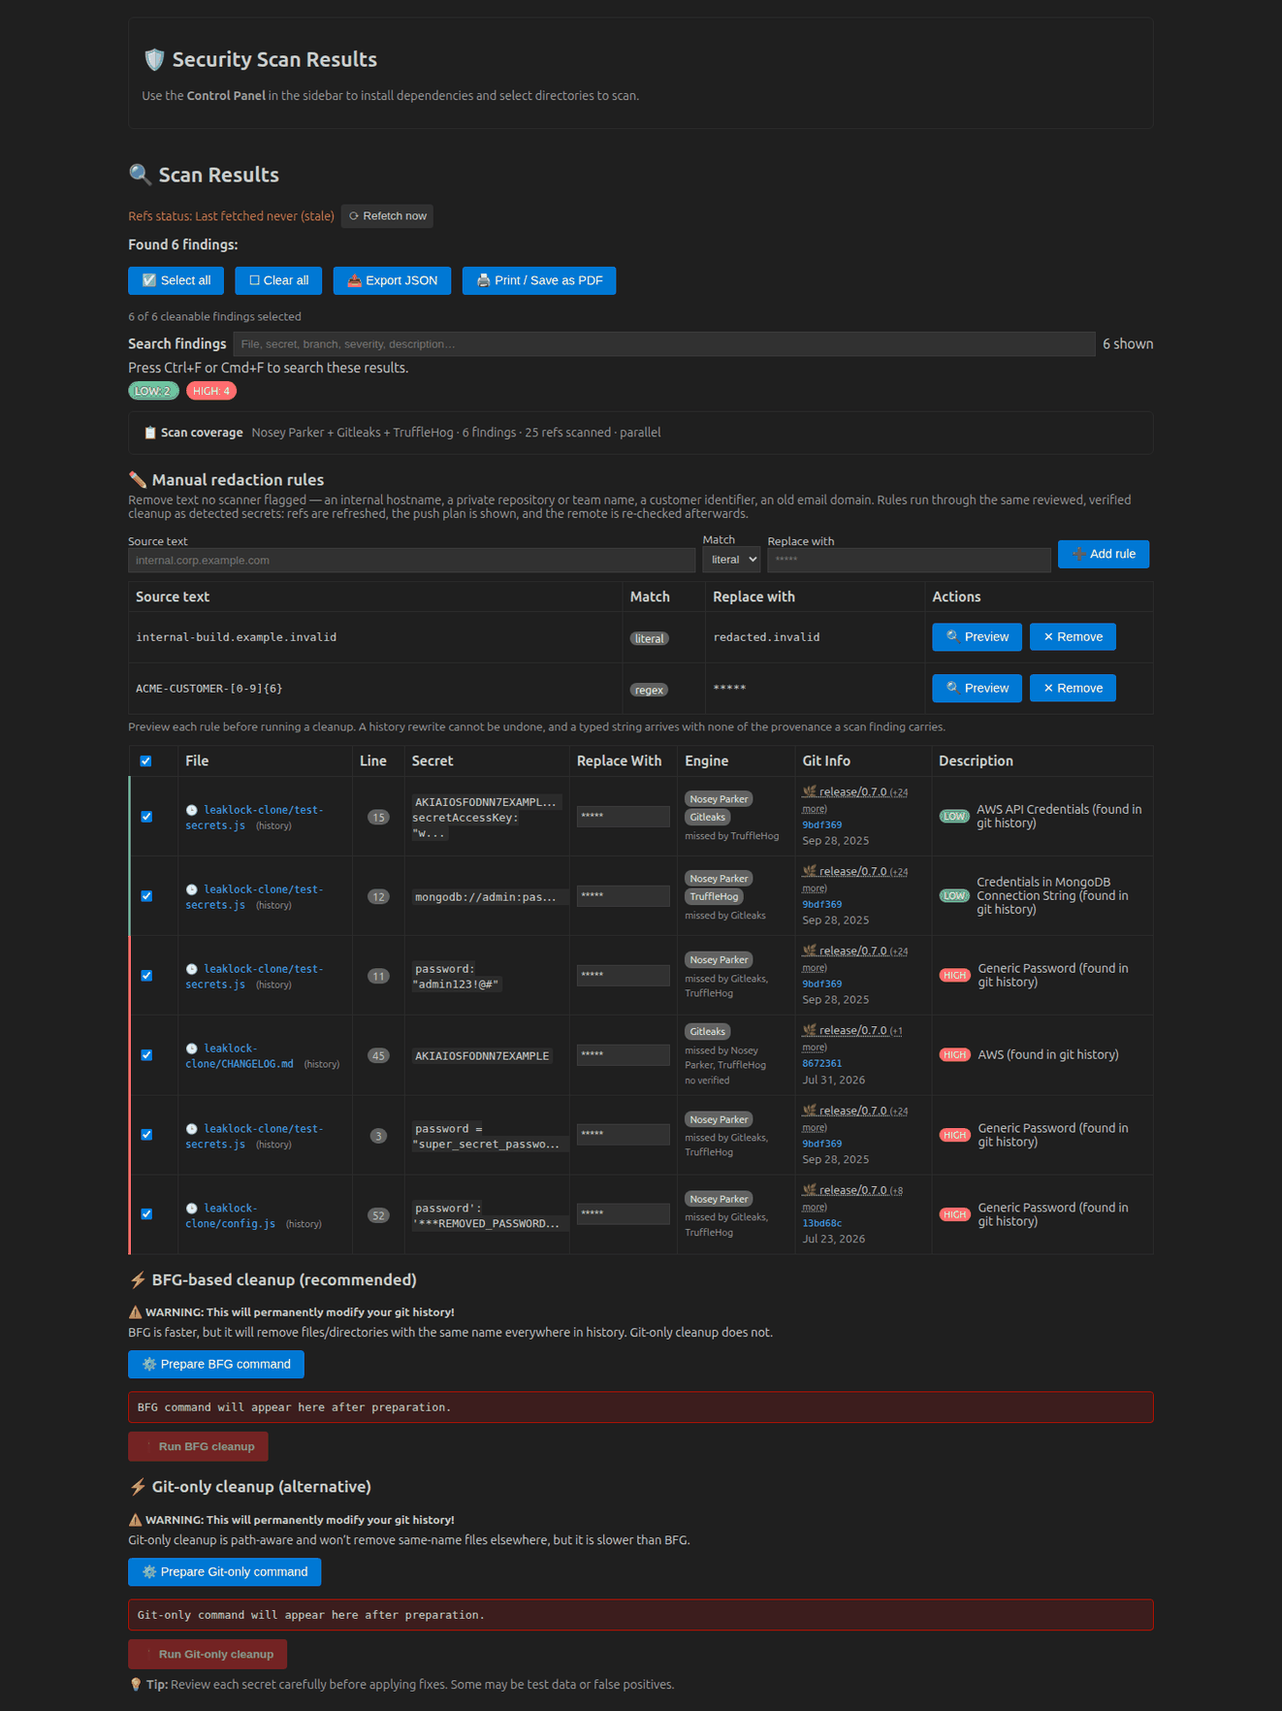
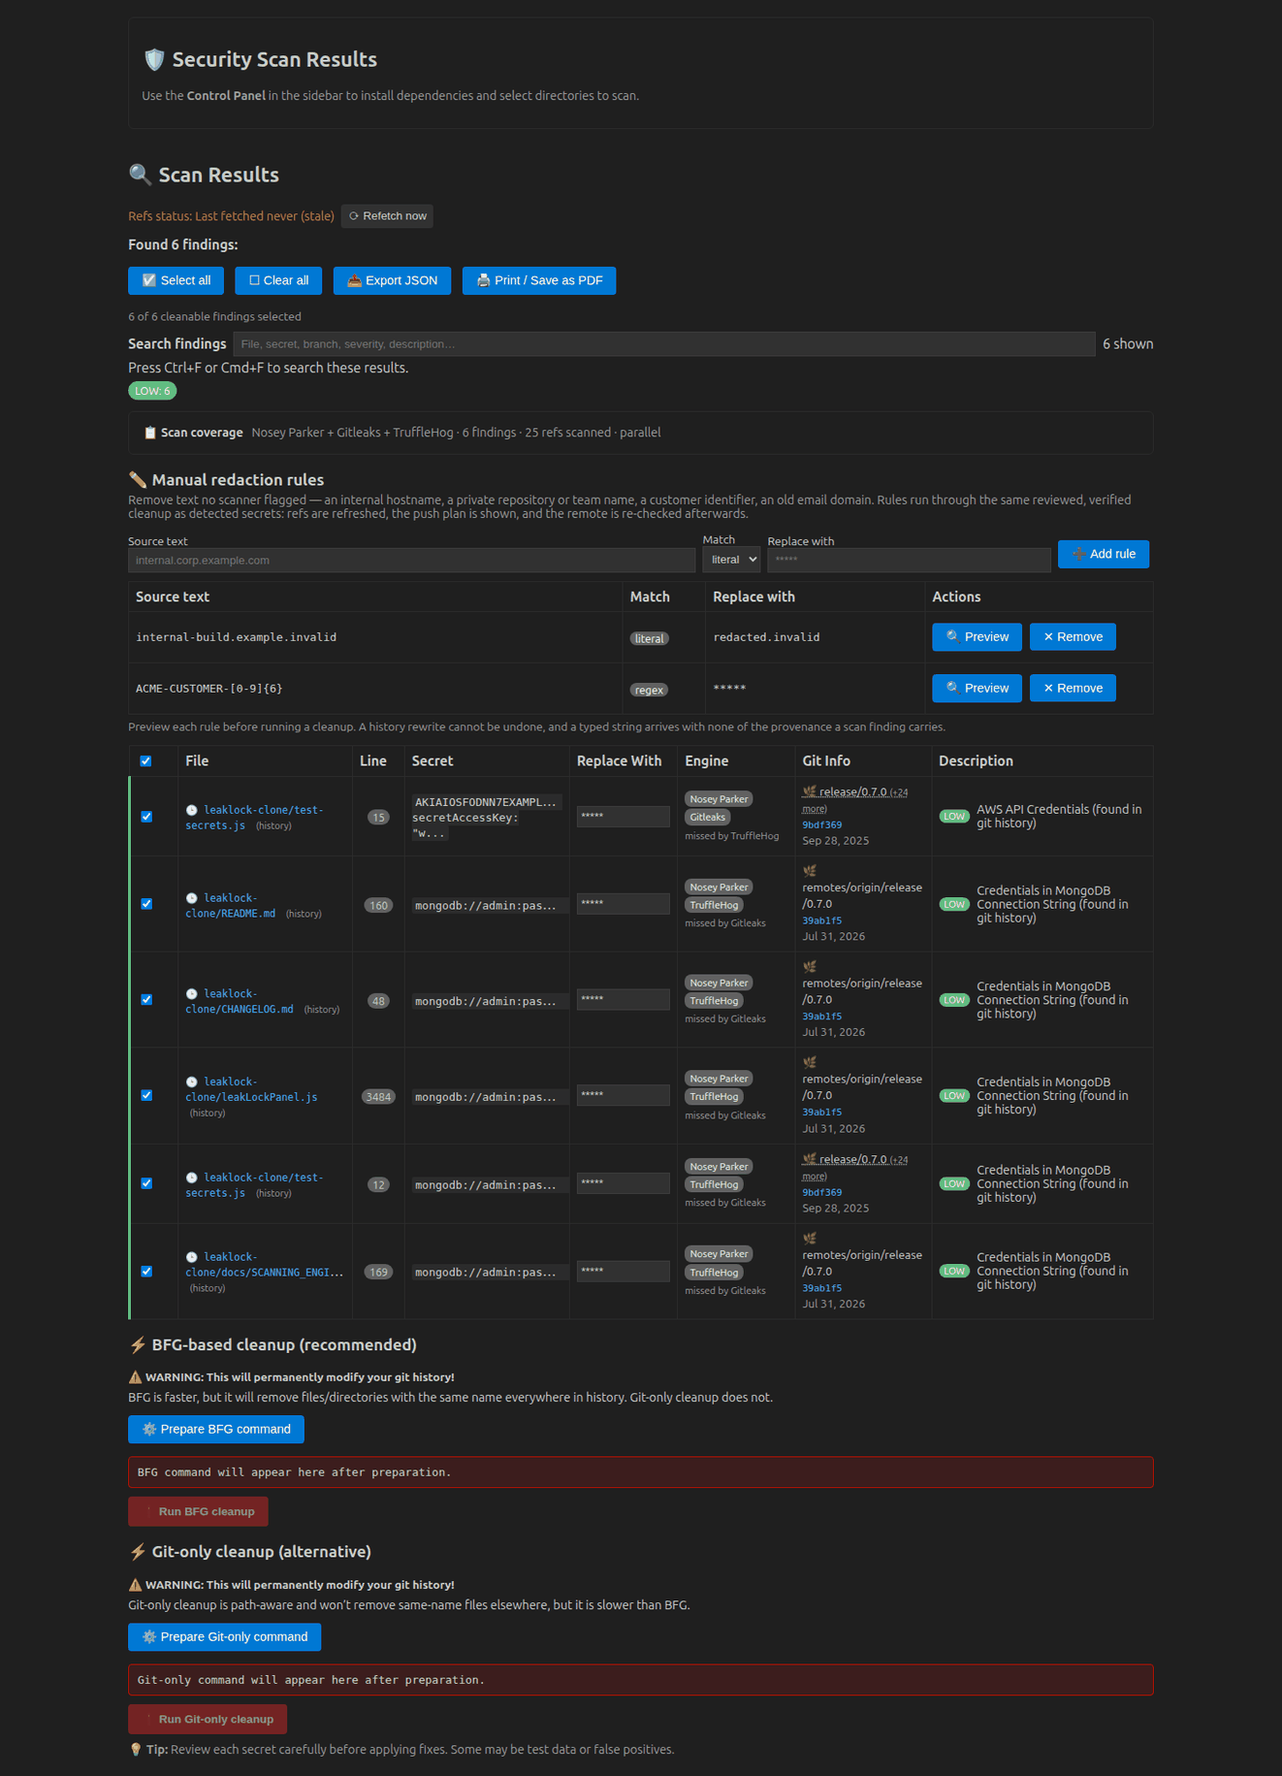
fix(scan): enable all three engines by default, and find their binaries off PATH
Reported: only two engines show up when testing. Two causes, both mine.

The shipped default for leakLock.scan.engines was ["gitleaks", "noseyparker"].
TruffleHog was fully implemented — adapter, settings, verification, tests — but
never enabled, so it only ran if a user found the setting. The screenshots and
documentation showed three engines because tools/real-scan.js hard-coded all
three, which is precisely the drift that made the docs describe something the
product did not do.

All three now ship enabled. The cost of enabling an engine a user has not
installed is one line in the coverage panel saying so, which is discoverability
rather than noise; the benefit is that the capability is visible instead of
hidden in settings. My original reason for leaving TruffleHog out — that it
makes network calls — does not hold: verification is the separate
leakLock.trufflehog.verify setting and is off by default, so enabling the engine
alone sends nothing anywhere.

The second cause would have kept the count at two even after enabling it. A
GUI-launched VS Code does not inherit the shell PATH — never on macOS, and
frequently missing ~/.local/bin on Linux — so an installed engine is reported
"not installed" and skipped. Binaries are now resolved against the locations
these tools actually get installed to before falling through to PATH. Verified
by running the real scan with PATH stripped to /usr/bin:/bin: all three engines
resolve and run.
[…]

diff --git a/scan-engines.js b/scan-engines.js
@@ -52,6 +52,56 @@ function makeFinding(fields) {
     return finding;
 }
 
+/**
+ * Locate an engine binary.
+ *
+ * A GUI-launched VS Code does not inherit the shell's PATH on macOS, and on Linux it
+ * frequently misses ~/.local/bin — so an engine the user has definitely installed is
+ * reported "not installed" and silently skipped. Fall back to the places these tools
+ * actually get installed before giving up.
+ */
+const COMMON_BIN_DIRS = [
+    path.join(os.homedir(), '.local', 'bin'),
+    path.join(os.homedir(), 'bin'),
+    path.join(os.homedir(), 'go', 'bin'),
+    '/usr/local/bin',
+    '/usr/bin',
+    '/opt/homebrew/bin',      // Apple silicon Homebrew
+    '/home/linuxbrew/.linuxbrew/bin',
+    'C:\\Program Files\\gitleaks',
+    'C:\\ProgramData\\chocolatey\\bin'
+];
+
+const resolvedBinaries = new Map();
+
+function resolveBinary(name, explicit) {
+    if (explicit) {
+        return explicit;
+    }
+    if (resolvedBinaries.has(name)) {
+        return resolvedBinaries.get(name);
+    }
+    for (const dir of COMMON_BIN_DIRS) {
+        for (const candidate of [path.join(dir, name), path.join(dir, `${name}.exe`)]) {
+            try {
+                fs.accessSync(candidate, fs.constants.X_OK);
+                resolvedBinaries.set(name, candidate);
+                return candidate;
+            } catch {
+                // Keep looking.
+            }
+        }
+    }
+    // Fall through to PATH resolution by the OS.
+    resolvedBinaries.set(name, name);
+    return name;
+}
+
+/** Test seam: forget cached binary locations. */
+function resetBinaryCache() {
+    resolvedBinaries.clear();
+}
+
 async function runTool(command, args, options = {}) {
     return execFileAsync(command, args, {
         timeout: options.timeoutMs || DEFAULT_TIMEOUT_MS,
@@ -213,7 +263,7 @@ const gitleaksEngine = {
 
     async isAvailable(options = {}) {
         try {
-            const { stdout } = await runTool(options.binary || this.binary, ['--help'], { timeoutMs: 15000 });
+            const { stdout } = await runTool(resolveBinary(this.binary, options.binary), ['--help'], { timeoutMs: 15000 });
             return detectGitleaksDialect(stdout) !== null;
         } catch {
             return false;
@@ -222,7 +272,7 @@ const gitleaksEngine = {
 
     async version(options = {}) {
         try {
-            const { stdout } = await runTool(options.binary || this.binary, ['version'], { timeoutMs: 15000 });
+            const { stdout } = await runTool(resolveBinary(this.binary, options.binary), ['version'], { timeoutMs: 15000 });
             const text = String(stdout || '').trim();
             // Distribution builds print a placeholder — Ubuntu's package emits
             // "version is set by build process". Rendering that where a version
@@ -238,7 +288,7 @@ const gitleaksEngine = {
      * @returns {Promise<{findings: Array, surfaces: object, warnings: string[]}>}
      */
     async scan({ repoDir, binary, timeoutMs, configPath, baselinePath, maxTargetMegabytes, includeWorkingTree = true } = {}) {
-        const bin = binary || this.binary;
+        const bin = resolveBinary(this.binary, binary);
         const { stdout: helpText } = await runTool(bin, ['--help'], { timeoutMs: 15000 });
         const dialect = detectGitleaksDialect(helpText);
         if (!dialect) {
@@ -374,7 +424,7 @@ const truffleHogEngine = {
 
     async isAvailable(options = {}) {
         try {
-            await runTool(options.binary || this.binary, ['--version'], { timeoutMs: 15000 });
+            await runTool(resolveBinary(this.binary, options.binary), ['--version'], { timeoutMs: 15000 });
             return true;
         } catch {
             return false;
@@ -384,7 +434,7 @@ const truffleHogEngine = {
     async version(options = {}) {
         try {
             // TruffleHog prints its version banner on stderr.
-            const { stdout, stderr } = await runTool(options.binary || this.binary, ['--version'], { timeoutMs: 15000 });
+            const { stdout, stderr } = await runTool(resolveBinary(this.binary, options.binary), ['--version'], { timeoutMs: 15000 });
             const text = `${stdout || ''}${stderr || ''}`.trim();
             const match = text.match(/\d+\.\d+\.\d+/);
             return match ? `v${match[0]}` : (text.split('\n')[0] || null);
@@ -394,7 +444,7 @@ const truffleHogEngine = {
     },
 
     async scan({ repoDir, binary, timeoutMs, verify = true, results = 'verified,unknown' } = {}) {
-        const bin = binary || this.binary;
+        const bin = resolveBinary(this.binary, binary);
         const args = buildTruffleHogArgs({ repoDir, verify, results });
         const warnings = [];
         let stdout = '';
@@ -438,6 +488,9 @@ function getEngine(id) {
 module.exports = {
     NORMALISED_FIELDS,
     makeFinding,
+    COMMON_BIN_DIRS,
+    resolveBinary,
+    resetBinaryCache,
     detectGitleaksDialect,
     buildGitleaksArgs,
     mapGitleaksFinding,

diff --git a/test/extension.test.js b/test/extension.test.js
@@ -1645,13 +1645,28 @@ suite('Engine selection and graceful degradation', () => {
 		assert.ok(ids.every(id => ['gitleaks', 'trufflehog', 'noseyparker'].includes(id)));
 	});
 
-	test('the default engine set leads with the maintained engine', () => {
+	test('every engine is enabled by default, led by the maintained one', () => {
 		const pkg = require('../package.json');
 		const setting = pkg.contributes.configuration.properties['leakLock.scan.engines'];
-		assert.deepStrictEqual(setting.default, ['gitleaks', 'noseyparker']);
+		// All three ship on. An engine whose binary is absent is reported and skipped,
+		// so the cost of enabling it is a line in the coverage panel — and the benefit
+		// is that the capability is discoverable instead of hidden in settings.
+		assert.deepStrictEqual(setting.default, ['gitleaks', 'trufflehog', 'noseyparker']);
 		// Nosey Parker is archived upstream, so it must not be the engine a new user
 		// relies on by default.
 		assert.strictEqual(setting.default[0], 'gitleaks');
+	});
+
+	test('the code fallback matches the manifest default', () => {
+		// These drifting apart is how a user ends up with fewer engines than the
+		// documentation shows.
+		const pkg = require('../package.json');
+		const panel = new LeakLockPanel({ fsPath: '/tmp/ext' });
+		const ids = panel._getEnabledEngineIds();
+		assert.deepStrictEqual(
+			ids.slice().sort(),
+			pkg.contributes.configuration.properties['leakLock.scan.engines'].default.slice().sort()
+		);
 	});
 
 	test('credential verification is off by default', () => {
@@ -2156,5 +2171,48 @@ suite('Cross-engine merging tolerates different captures of one secret', () => {
 			{ file: 'a.js', line: 3, commitHash: 'c1', fullSecret: 'AKIAIOSFODNN7EXAMPLE', ruleName: 'generic-api-key', engine: 'gitleaks', engines: ['gitleaks'] }
 		]);
 		assert.strictEqual(merged.length, 2);
+	});
+});
+
+suite('Engine binaries are found outside the shell PATH', () => {
+	const engines = require('../scan-engines');
+	const fs = require('fs');
+	const os = require('os');
+	const path = require('path');
+
+	test('an explicit binaryPath always wins', () => {
+		assert.strictEqual(engines.resolveBinary('trufflehog', '/opt/custom/trufflehog'), '/opt/custom/trufflehog');
+	});
+
+	test('common install locations are searched before giving up', () => {
+		// A GUI-launched VS Code does not inherit the shell PATH on macOS and often
+		// misses ~/.local/bin on Linux, so an engine the user definitely installed
+		// gets reported "not installed" and silently skipped.
+		const dirs = engines.COMMON_BIN_DIRS;
+		assert.ok(dirs.includes(path.join(os.homedir(), '.local', 'bin')));
+		assert.ok(dirs.includes('/opt/homebrew/bin'), 'Apple silicon Homebrew');
+		assert.ok(dirs.includes('/usr/local/bin'));
+	});
+
+	test('an executable in a common location is resolved to its absolute path', () => {
+		const dir = path.join(os.homedir(), '.local', 'bin');
+		const name = `leaklock-probe-${process.pid}`;
+		const file = path.join(dir, name);
+		fs.mkdirSync(dir, { recursive: true });
+		fs.writeFileSync(file, '#!/bin/sh\nexit 0\n', { mode: 0o755 });
+		try {
+			engines.resetBinaryCache();
+			assert.strictEqual(engines.resolveBinary(name), file);
+		} finally {
+			fs.rmSync(file, { force: true });
+			engines.resetBinaryCache();
+		}
+	});
+
+	test('an unknown binary falls through to PATH resolution unchanged', () => {
+		engines.resetBinaryCache();
+		const name = `leaklock-absent-${process.pid}`;
+		assert.strictEqual(engines.resolveBinary(name), name,
+			'the OS still gets its chance to resolve it');
 	});
 });

diff --git a/docs/website/index.html b/docs/website/index.html
@@ -453,7 +453,7 @@ codium  --install-extension nikolareljin.leak-lock</code></pre>
     <div class="steps">
       <div class="step">
         <h3>Install dependencies</h3>
-        <p>First run only. <strong>Gitleaks</strong> is the default engine and is a single binary — no Docker, no JVM. Add <strong>TruffleHog</strong> if you want live credential verification. Docker is needed only if you also enable the legacy Nosey Parker engine, and Java only for BFG-based cleanup. A missing engine disables that engine, never the whole scan.</p>
+        <p>First run only. All three engines are enabled out of the box. <strong>Gitleaks</strong> and <strong>TruffleHog</strong> are single binaries — no Docker, no JVM; Docker is needed only for the legacy Nosey Parker engine, and Java only for BFG-based cleanup. An engine you have not installed is <em>reported in the coverage panel and skipped</em> — it never fails the scan, and you can see at a glance what you are missing.</p>
       </div>
       <div class="step">
         <h3>Scan for issues</h3>

diff --git a/tools/real-scan.js b/tools/real-scan.js
@@ -26,7 +26,11 @@ if (!TARGET) {
 
 const settings = {
     'dependencyHandling': 'warning',
-    'scan.engines': ['gitleaks', 'trufflehog', 'noseyparker'],
+    // Read the shipped default rather than hard-coding one. Hard-coding here is
+    // exactly how the screenshots came to show three engines while the extension
+    // shipped with two.
+    'scan.engines': require(path.join(REPO, 'package.json'))
+        .contributes.configuration.properties['leakLock.scan.engines'].default,
     'scan.executionMode': 'auto',
     'scan.timeoutSeconds': 900,
     'scan.refreshRefsBeforeScan': true,

diff --git a/leakLockPanel.js b/leakLockPanel.js
@@ -4845,7 +4845,7 @@ class LeakLockPanel {
         const configured = config.get('scan.engines');
         const ids = Array.isArray(configured) && configured.length
             ? configured
-            : ['gitleaks', 'noseyparker'];
+            : ['gitleaks', 'trufflehog', 'noseyparker'];
         const known = new Set(['gitleaks', 'trufflehog', 'noseyparker']);
         return ids.filter(id => known.has(id));
     }

diff --git a/CHANGELOG.md b/CHANGELOG.md
@@ -2,7 +2,8 @@
 
 ## 0.7.0
 ### Added
-- **Multiple Detection Engines**: Leak Lock no longer depends on a single scanner. **Gitleaks** (MIT, actively maintained, no Docker or JVM required) is now the default engine, **TruffleHog** is available for live credential verification, and **Nosey Parker** remains as an optional legacy engine. Enabled engines run together and their findings are merged into one list. Configure with `leakLock.scan.engines`; a missing engine binary disables that engine, never the whole scan. See [docs/SCANNING_ENGINES.md](docs/SCANNING_ENGINES.md).
+- **Multiple Detection Engines**: Leak Lock no longer depends on a single scanner. **Gitleaks** (MIT, actively maintained, no Docker or JVM required), **TruffleHog** (live credential verification) and **Nosey Parker** (legacy, archived upstream) are **all enabled by default** and run together, their findings merged into one attributed list. A missing engine binary disables that engine, never the whole scan, and is reported in the coverage panel so an engine you have not installed is visible rather than silently absent. Enabling TruffleHog makes no network call on its own — verification is the separate `leakLock.trufflehog.verify` setting, off by default. Configure with `leakLock.scan.engines`. See [docs/SCANNING_ENGINES.md](docs/SCANNING_ENGINES.md).
+- **Engine Binaries Are Found Outside the Shell `PATH`**: a GUI-launched VS Code does not inherit your shell's `PATH` — never on macOS, and frequently missing `~/.local/bin` on Linux — so an engine you had definitely installed was reported "not installed" and skipped. Leak Lock now also looks in `~/.local/bin`, `~/bin`, `~/go/bin`, `/usr/local/bin`, `/usr/bin`, `/opt/homebrew/bin`, `/home/linuxbrew/.linuxbrew/bin` and the common Windows locations. `leakLock.gitleaks.binaryPath` and `leakLock.trufflehog.binaryPath` still take an absolute path for anything unusual.
 - **Engine Attribution**: Every finding names the engines that reported it and, from the engines that actually ran, the ones that did not. This is the diagnostic that turns "another scanner found more than you did" from a mystery into a checkable fact — which is how this release started.
 - **Live Credential Verification**: TruffleHog can confirm whether a discovered credential still works. A verified finding is badged `VERIFIED LIVE` and ranked above every rule-name heuristic, because rewriting history does not revoke a working key — it has to be rotated first. Verification makes read-only network calls to third-party providers *using the discovered credential*, so it is off by default (`leakLock.trufflehog.verify`).
 - **Manual Redaction Rules**: A **Source text → Replace with** editor removes content no scanner flags — an internal hostname, a private repository or team name, a customer identifier, an old email domain. Rules match literally or by regular expression and run through the same prepare, review, rewrite, verify and confirm-push pipeline as a detected secret. They persist across a re-scan, because unlike selection they are not tied to result indices.

diff --git a/docs/SCANNING_ENGINES.md b/docs/SCANNING_ENGINES.md
@@ -33,7 +33,7 @@ more than one engine.
 
 Nothing carries a `VERIFIED LIVE` badge because verification was enabled and TruffleHog
 correctly verified none of these — they are synthetic fixtures from `test-secrets.js`, not
-live credentials. The full run returned 45 findings; the image shows six, chosen to span
+live credentials. The full run returned 59 findings; the image shows six, chosen to span
 the engines.
 
 ---
@@ -191,18 +191,34 @@ no-limit values. If a cap is ever reintroduced, the results must say so.
 
 ## Choosing engines
 
-`leakLock.scan.engines` is an ordered list. The default:
+`leakLock.scan.engines` is an ordered list. **All three are enabled by default:**
 
 ```jsonc
-"leakLock.scan.engines": ["gitleaks", "noseyparker"]
+"leakLock.scan.engines": ["gitleaks", "trufflehog", "noseyparker"]
 ```
 
-Add `"trufflehog"` to include verification.
-
 - A missing engine binary **disables that engine, never the scan**. The coverage panel
-  states which engines ran, at which versions, and which did not and why.
-- Running two engines is the point. Their rulesets genuinely differ, and the attribution
+  states which engines ran, at which versions, and which did not and why — so an engine
+  you have not installed is visible rather than silently absent.
+- Running all three is the point. Their rulesets genuinely differ, and the attribution
   line tells you when one is falling behind.
+- Enabling TruffleHog does **not** on its own make any network call. Verification is a
+  separate setting (`leakLock.trufflehog.verify`, off by default).
+
+### If an engine you installed is reported "not installed"
+
+A GUI-launched VS Code does not inherit your shell's `PATH` — on macOS it never does, and
+on Linux it frequently misses `~/.local/bin`. Leak Lock therefore also looks in the
+places these tools are actually installed: `~/.local/bin`, `~/bin`, `~/go/bin`,
+`/usr/local/bin`, `/usr/bin`, `/opt/homebrew/bin`, `/home/linuxbrew/.linuxbrew/bin`, and
+the common Windows locations.
+
+If your binary lives somewhere else, point at it directly:
+
+```jsonc
+"leakLock.trufflehog.binaryPath": "/opt/tools/trufflehog",
+"leakLock.gitleaks.binaryPath": "/opt/tools/gitleaks"
+```
 
 ---
 
@@ -325,7 +341,7 @@ caveat.
 
 | Setting | Default | Purpose |
 |---|---|---|
-| `leakLock.scan.engines` | `["gitleaks","noseyparker"]` | Which engines run, in order |
+| `leakLock.scan.engines` | `["gitleaks","trufflehog","noseyparker"]` | Which engines run, in order |
 | `leakLock.scan.executionMode` | `auto` | `auto`, `parallel`, `sequential` or `single` — see [How many engines run at once](#how-many-engines-run-at-once) |
 | `leakLock.scan.timeoutSeconds` | `300` | Per-engine timeout. On expiry, partial findings are reported and marked incomplete |
 | `leakLock.scan.refreshRefsBeforeScan` | `true` | `git fetch --prune --tags` first, so remote-only branches are not invisible |

diff --git a/README.md b/README.md
@@ -155,7 +155,7 @@ afterwards. See [docs/REMOVE_FILES.md](docs/REMOVE_FILES.md#ref-complete-rewrite
 
 > Captured from a **real scan of this repository** — a fresh clone, scanned with
 > Gitleaks, TruffleHog and Nosey Parker together, rendered from the extension's own
-> webview. The full run found 45 findings; the table shows six of them, chosen to span
+> webview. The full run found 59 findings; the table shows six of them, chosen to span
 > the three engines. Every secret shown is a synthetic fixture from `test-secrets.js`
 > (AWS's published `AKIAIOSFODNN7EXAMPLE`, `mongodb://admin:password@localhost`), not a
 > real credential — which is also why nothing carries a `VERIFIED LIVE` badge: TruffleHog
@@ -374,12 +374,21 @@ it**. Fewer engines means fewer findings, so a downgrade is never silent. Set
 `executionMode` to `parallel`, `sequential` or `single` to decide for yourself.
 
 ### Choosing engines
-`leakLock.scan.engines` sets which run, and in what order. The default is
-`["gitleaks", "noseyparker"]`. A missing engine binary disables that engine — never the
-whole scan — and the coverage panel says which engines ran and which did not.
+`leakLock.scan.engines` sets which run, and in what order. **All three are enabled by
+default** — `["gitleaks", "trufflehog", "noseyparker"]`. A missing engine binary disables
+that engine, never the whole scan, and the coverage panel says which engines ran and which
+did not, so an engine you have not installed is visible rather than silently absent.
+
+Enabling TruffleHog does not by itself make any network call; verification is the separate
+`leakLock.trufflehog.verify` setting, off by default.
 
 Running more than one is the point: they have genuinely different rulesets, and the
 attribution line tells you when one of them is falling behind.
+
+If an engine you have installed is reported as missing, it is almost always `PATH` — a
+GUI-launched VS Code does not inherit your shell's. Leak Lock searches the usual install
+locations (`~/.local/bin`, `/usr/local/bin`, `/opt/homebrew/bin`, …); for anything else,
+set `leakLock.trufflehog.binaryPath` or `leakLock.gitleaks.binaryPath`.
 
 ### **BFG Repo Cleaner**
 - **Purpose**: Git history rewriting and cleanup
